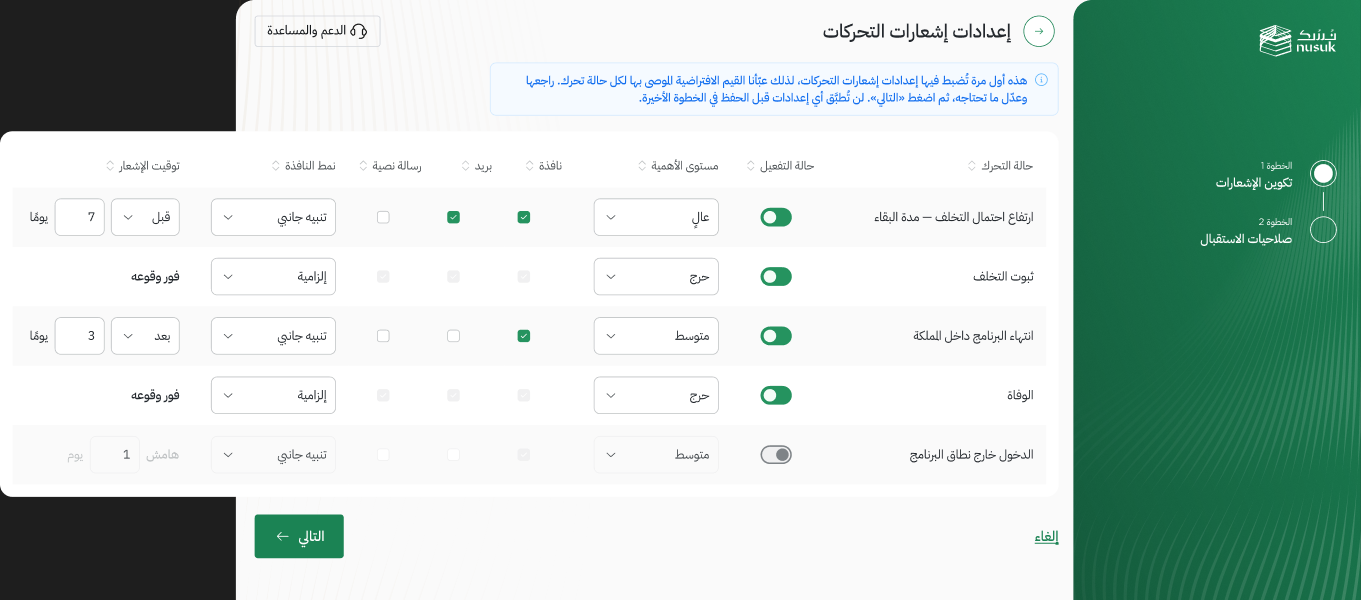
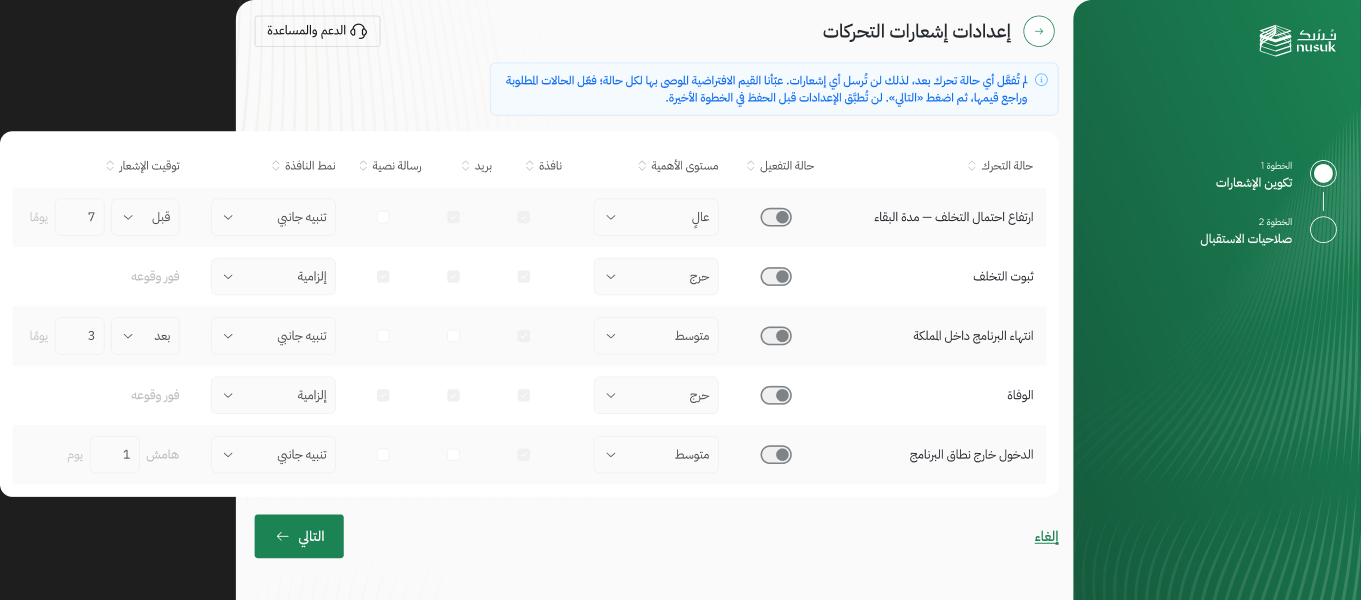
Settings first view: all statuses off with disabled default values
Claude-Session: https://claude.ai/code/session_01CyctH4WFBszWbBNkvnfQuz

diff --git a/CLAUDE.md b/CLAUDE.md
@@ -220,8 +220,10 @@ All four libraries are published and reachable through `search_design_system`.
   - «read-only» (pin on row الوفاة, رسالة نصية): الوفاة channel checkboxes are now state=disabled, selected, like ثبوت التخلف.
   - «leave spacing between the list and control bar» was already done by the user; «ديسبلد» was resolved.
   - First view (user: «first view اعمل دي»): new frame `4652:20156` «الإعدادات 1 — أول دخول (القيم الافتراضية)», a clone of step 1
-    placed directly under it in `4579:93770` (x5205 y1480). It has the same default values, and its infobox explains that the
-    recommended defaults are pre-filled, to review and press «التالي», and that nothing applies before the final save. Step 1's
+    placed directly under it in `4579:93770` (x5205 y1480). User: «first time everything should be off» → all five switches
+    are off. Rows 1–4 show the recommended defaults in the same disabled look as row 5: dropdowns are clones of row 5's
+    dropdown with the value kept, checkboxes are state=disabled with their selection kept, inputs are disabled, and timing
+    texts are neutral40. Infobox: «لم تُفعَّل أي حالة تحرك بعد، لذلك لن تُرسل أي إشعارات…». Step 1's
     infobox now keeps only the column description (the first-visit sentence moved to the new frame).
     Preview `previews/settings-timing/step1-first-view.png`.
   Comments are read via REST using the token the user pasted earlier; it is kept only in the scratchpad, never in the repo.
